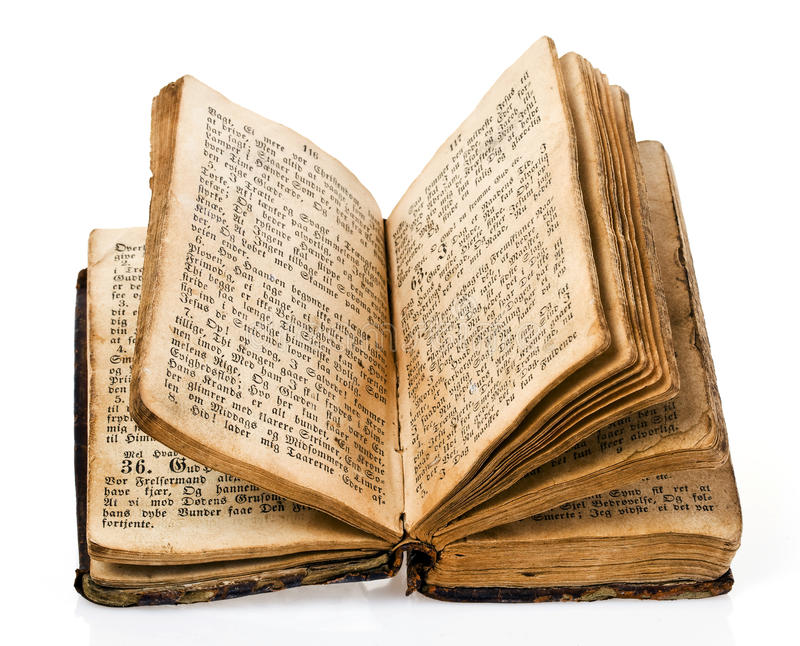
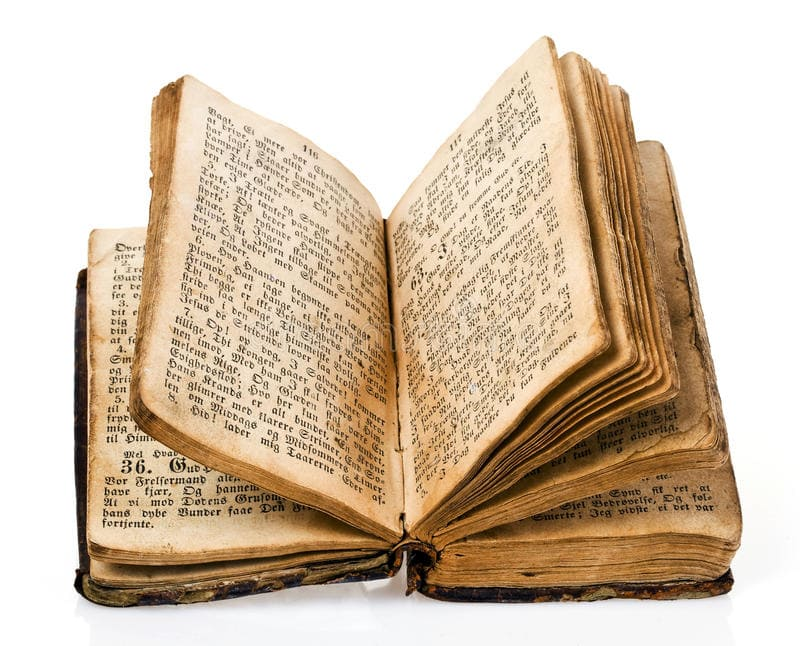
Convert webp to png and compress all images

diff --git a/index.html b/index.html
@@ -94,7 +94,7 @@
                         <div class="badge bg-dark text-white position-absolute" style="top: 0.5rem; right: 0.5rem">"Novo"
                         </div>
                         <!-- Product image-->
-                        <img class="card-img-top" src="/assets/img/img-hamlet.webp"
+                        <img class="card-img-top" src="/assets/img/img-hamlet.png"
                             alt="Fotografia de 3 volumes de livros antigos, na qual o primeiro é um exemplar de Hamlet, de Shakespeare" />
                         <!-- Product details-->
                         <div class="card-body p-4">
@@ -221,7 +221,7 @@
                         <div class="badge bg-dark text-white position-absolute" style="top: 0.5rem; right: 0.5rem">"Novo"
                         </div>
                         <!-- Product image-->
-                        <img class="card-img-top" height=300 src="/assets/img/img-quarto_de_despejo.webp" 
+                        <img class="card-img-top" height=300 src="/assets/img/img-quarto_de_despejo.png" 
                         alt="Fotografia do livro Quarto de Desepejo, o qual tem uma capa meio cinza, com os dizeres em branco e algumas ilustrações representando favelas acompanhando o tom branco" />
                         <!-- Product details-->
                         <div class="card-body p-4">
